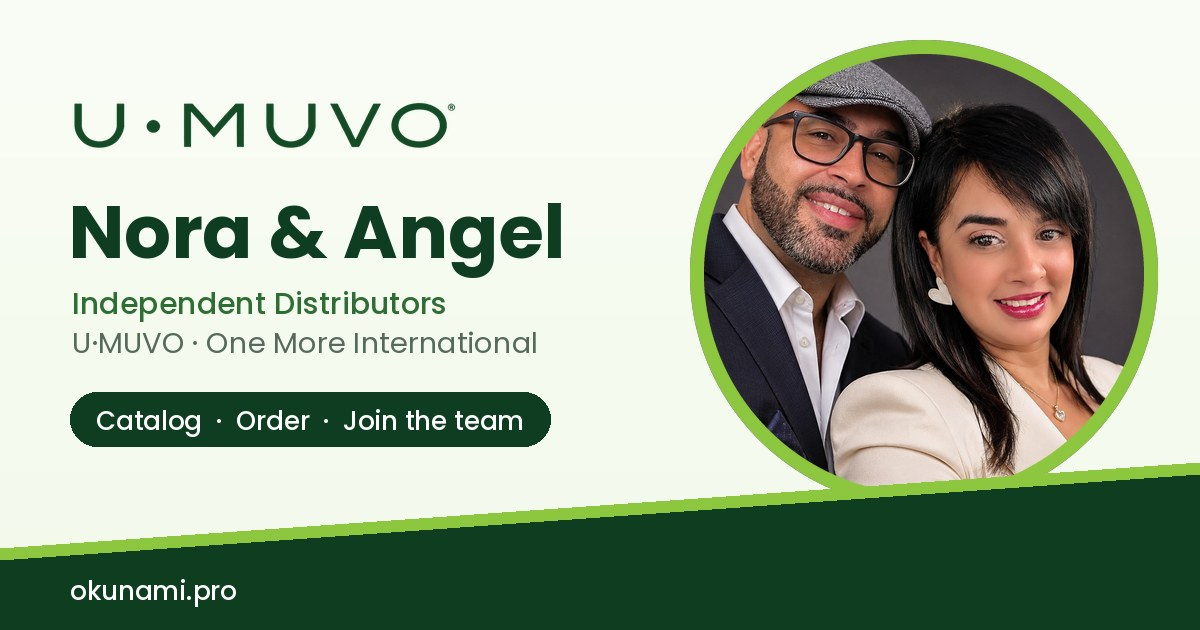
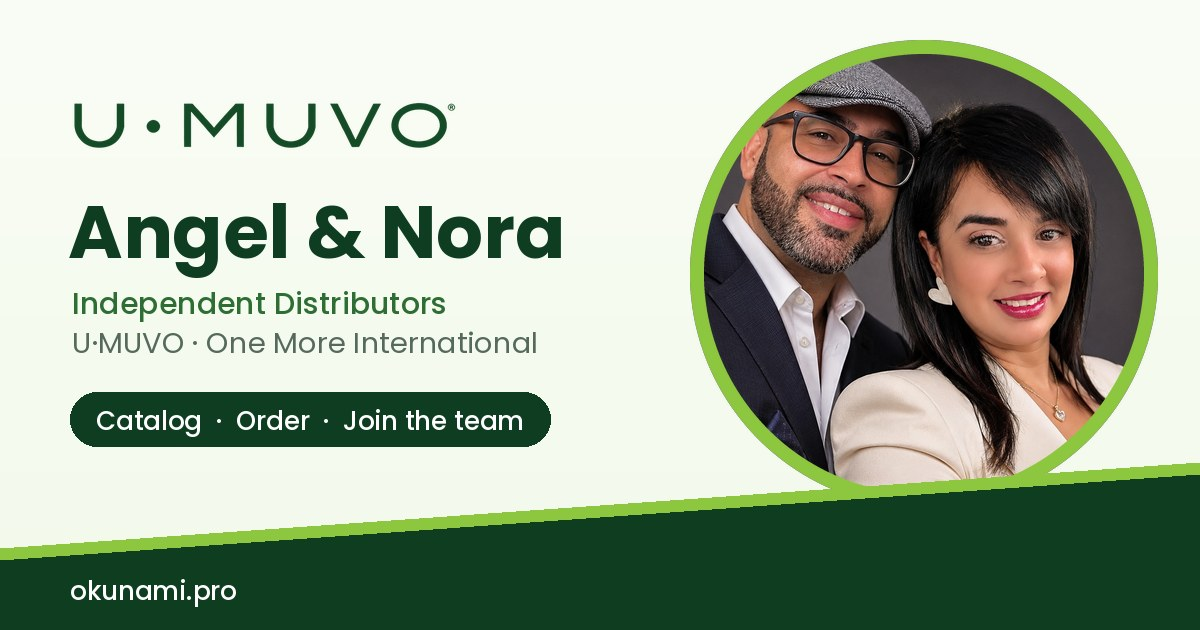
Angel & Nora card: back to Duo, names flipped
Angel first in the name, title, share image, contact rows, Nora-or-Angel pop-up, back office and Save Contact.

Claude-Session: https://claude.ai/code/session_01JodS2br9Sz2N15b8r9hp4v

Changed region(s): [[0.0617, 0.3016, 0.4625, 0.4524]]

diff --git a/sites/noraangel/index.html b/sites/noraangel/index.html
@@ -3,9 +3,9 @@
 <head>
 <meta charset="utf-8">
 <meta name="viewport" content="width=device-width, initial-scale=1, viewport-fit=cover">
-<title>Nora &amp; Angel | U-MUVO</title>
-<meta name="description" content="Nora &amp; Angel, Independent Distributors. Take the free natural wellness quiz, browse the U-MUVO catalog, order by WhatsApp and join our team.">
-<meta property="og:title" content="Nora &amp; Angel | U-MUVO">
+<title>Angel &amp; Nora | U-MUVO</title>
+<meta name="description" content="Angel &amp; Nora, Independent Distributors. Take the free natural wellness quiz, browse the U-MUVO catalog, order by WhatsApp and join our team.">
+<meta property="og:title" content="Angel &amp; Nora | U-MUVO">
 <meta property="og:description" content="Products, catalog and team. Save our contact in one step.">
 <meta property="og:type" content="website">
 <meta property="og:site_name" content="OKUNAMI">
@@ -13,7 +13,7 @@
 <meta property="og:image" content="https://noraangel.okunami.pro/images/og.jpg">
 <meta property="og:image:width" content="1200">
 <meta property="og:image:height" content="630">
-<meta property="og:image:alt" content="Nora and Angel, Independent Distributors, U-MUVO">
+<meta property="og:image:alt" content="Angel and Nora, Independent Distributors, U-MUVO">
 <meta name="twitter:card" content="summary_large_image">
 <meta name="twitter:image" content="https://noraangel.okunami.pro/images/og.jpg">
 <link rel="canonical" href="https://noraangel.okunami.pro/">
@@ -22,7 +22,7 @@
 <link rel="apple-touch-icon" sizes="180x180" href="images/apple-touch-icon.png">
 <meta name="apple-mobile-web-app-capable" content="yes">
 <meta name="mobile-web-app-capable" content="yes">
-<meta name="apple-mobile-web-app-title" content="Nora &amp; Angel">
+<meta name="apple-mobile-web-app-title" content="Angel &amp; Nora">
 <meta name="theme-color" content="#0f3d22">
 <link rel="preconnect" href="https://fonts.googleapis.com">
 <link rel="preconnect" href="https://fonts.gstatic.com" crossorigin>
@@ -34,7 +34,7 @@
 <link rel="stylesheet" href="css/pick.css">
 <link rel="stylesheet" href="css/looks.css">
 </head>
-<body class="final lk-signature" data-qr-name="Nora &amp; Angel">
+<body class="final lk-duo" data-qr-name="Angel &amp; Nora">
 <svg width="0" height="0" style="position:absolute" aria-hidden="true">
   <symbol id="i-phone" viewBox="0 0 24 24"><path fill="none" stroke="currentColor" stroke-width="1.8" stroke-linecap="round" stroke-linejoin="round" d="M5 4h4l2 5-2.5 1.5a11 11 0 0 0 5 5L15 13l5 2v4a2 2 0 0 1-2 2A16 16 0 0 1 3 6a2 2 0 0 1 2-2"/></symbol>
   <symbol id="i-text" viewBox="0 0 24 24"><path fill="none" stroke="currentColor" stroke-width="1.8" stroke-linecap="round" stroke-linejoin="round" d="M4 5h16v11H9l-5 4z"/><path stroke="currentColor" stroke-width="1.8" stroke-linecap="round" d="M8 9.5h8M8 12.5h5"/></symbol>
@@ -58,15 +58,15 @@
 <!-- LOOK: Editorial -->
 <article class="card l4" id="l4" aria-label="Editorial" data-lang="en">
   <div class="hero"><button class="lang" type="button" data-lang role="switch" aria-checked="false" aria-label="Español / Spanish"><span class="l-es" aria-hidden="true">ES</span><span class="l-en" aria-hidden="true">EN</span></button>
-    <div class="frame"><img class="photo" src="images/portrait.jpg" alt="Nora and Angel" width="800" height="1000"></div>
-    <div class="over"><img class="logo" src="images/logo-green.png" alt="U-MUVO" width="936" height="129"><h1>Nora <em>&amp;</em> Angel</h1><p class="role"><span data-es="Distribuidores Independientes">Independent Distributors</span><i></i><span class="u">U&middot;MUVO &middot; One More International</span></p></div>
+    <div class="frame"><img class="photo" src="images/portrait.jpg" alt="Angel and Nora" width="800" height="1000"></div>
+    <div class="over"><img class="logo" src="images/logo-green.png" alt="U-MUVO" width="936" height="129"><h1>Angel <em>&amp;</em> Nora</h1><p class="role"><span data-es="Distribuidores Independientes">Independent Distributors</span><i></i><span class="u">U&middot;MUVO &middot; One More International</span></p></div>
   </div>
   <div class="body">
-    <div class="duo" aria-label="Reach Nora or Angel">
-      <div class="who"><img src="images/nora.jpg" alt="" width="56" height="56"><div class="who-n"><b>Nora</b><small>(407) 731-0427</small></div>
-        <div class="who-a"><a data-direct="nora" href="https://wa.me/14077310427" target="_blank" rel="noopener" aria-label="WhatsApp Nora"><svg class="ico"><use href="#i-wa"/></svg></a><a data-direct="nora" href="tel:+14077310427" aria-label="Call Nora"><svg class="ico"><use href="#i-phone"/></svg></a><a data-direct="nora" href="sms:+14077310427" aria-label="Text Nora"><svg class="ico"><use href="#i-text"/></svg></a></div></div>
+    <div class="duo" aria-label="Reach Angel or Nora">
       <div class="who"><img src="images/angel.jpg" alt="" width="56" height="56"><div class="who-n"><b>Angel</b><small>(407) 960-9004</small></div>
         <div class="who-a"><a data-direct="angel" href="https://wa.me/14079609004" target="_blank" rel="noopener" aria-label="WhatsApp Angel"><svg class="ico"><use href="#i-wa"/></svg></a><a data-direct="angel" href="tel:+14079609004" aria-label="Call Angel"><svg class="ico"><use href="#i-phone"/></svg></a><a data-direct="angel" href="sms:+14079609004" aria-label="Text Angel"><svg class="ico"><use href="#i-text"/></svg></a></div></div>
+      <div class="who"><img src="images/nora.jpg" alt="" width="56" height="56"><div class="who-n"><b>Nora</b><small>(407) 731-0427</small></div>
+        <div class="who-a"><a data-direct="nora" href="https://wa.me/14077310427" target="_blank" rel="noopener" aria-label="WhatsApp Nora"><svg class="ico"><use href="#i-wa"/></svg></a><a data-direct="nora" href="tel:+14077310427" aria-label="Call Nora"><svg class="ico"><use href="#i-phone"/></svg></a><a data-direct="nora" href="sms:+14077310427" aria-label="Text Nora"><svg class="ico"><use href="#i-text"/></svg></a></div></div>
     </div>
     <div class="actions">
       <a class="btn wa" href="https://wa.me/14077310427" target="_blank" rel="noopener"><svg class="ico"><use href="#i-wa"/></svg>WhatsApp</a>
@@ -97,7 +97,7 @@
     <section class="panel quiz-panel" id="quiz">
       <p class="sec"><svg class="ico"><use href="#i-check"/></svg><span data-es="Quiz gratis de 60 segundos">Free 60-second quiz</span></p>
       <h2><span data-es="Encuentra tu rutina natural">Find your natural routine</span></h2>
-      <p class="lead"><span data-es="Contesta 5 preguntas r&amp;aacute;pidas sobre energ&amp;iacute;a, descanso, comodidad, piel y m&amp;aacute;s y recibe una sugerencia personal de Nora y Angel.">Answer 5 quick questions about energy, rest, body comfort, skin or more, and get a personal suggestion from Nora &amp; Angel.</span></p>
+      <p class="lead"><span data-es="Contesta 5 preguntas r&amp;aacute;pidas sobre energ&amp;iacute;a, descanso, comodidad, piel y m&amp;aacute;s y recibe una sugerencia personal de Angel y Nora.">Answer 5 quick questions about energy, rest, body comfort, skin or more, and get a personal suggestion from Angel &amp; Nora.</span></p>
       <button class="cta glow" type="button" data-quiz aria-haspopup="dialog"><svg class="ico"><use href="#i-leaf"/></svg><span data-es="Empezar el quiz">Start the quiz</span></button>
       <p class="cta-note"><span data-es="Gratis. Sin compromiso. Tus respuestas son privadas.">Free. No commitment. Your answers stay private.</span></p>
     </section>
@@ -111,7 +111,7 @@
         <li><b>100+</b><span data-es="Pa&amp;iacute;ses">Countries</span></li>
         <li><b>1M+</b><span data-es="Distribuidores">Distributors</span></li>
       </ul>
-      <a class="cta join-btn glow" href="https://wa.me/14077310427?text=Hi%20Nora%20and%20Angel%2C%20I%27d%20like%20to%20join%20your%20U-MUVO%20team." target="_blank" rel="noopener" data-join-wa><svg class="ico"><use href="#i-users"/></svg><span data-es="&amp;Uacute;nete al equipo">Join the team</span></a>
+      <a class="cta join-btn glow" href="https://wa.me/14077310427?text=Hi%20Angel%20and%20Nora%2C%20I%27d%20like%20to%20join%20your%20U-MUVO%20team." target="_blank" rel="noopener" data-join-wa><svg class="ico"><use href="#i-users"/></svg><span data-es="&amp;Uacute;nete al equipo">Join the team</span></a>
     </section>
 
     <ul class="badges" aria-label="Product standards">
@@ -123,7 +123,7 @@
     </ul>
     <p class="fine"><span data-es="Productos naturales de bienestar. No son medicina. Los resultados var&amp;iacute;an de persona a persona.">Natural wellness products. Not a medicine. Results vary from person to person.</span></p>
 
-    <div class="qr"><img src="images/qr.svg" alt="QR code to share Nora and Angel's card" width="264" height="264"><p><b><span data-es="Comparte nuestra tarjeta.">Share our card.</span></b><br><span data-es="Escanea para guardar nuestro contacto o env&amp;iacute;asela a alguien que quiera sentirse mejor.">Scan to save our contact or send it to someone who wants to feel better.</span></p></div>
+    <div class="qr"><img src="images/qr.svg" alt="QR code to share Angel and Nora's card" width="264" height="264"><p><b><span data-es="Comparte nuestra tarjeta.">Share our card.</span></b><br><span data-es="Escanea para guardar nuestro contacto o env&amp;iacute;asela a alguien que quiera sentirse mejor.">Scan to save our contact or send it to someone who wants to feel better.</span></p></div>
   </div>
   <div class="foot">
     <img class="logo" src="images/logo-green.png" alt="U-MUVO" width="936" height="129" loading="lazy">
@@ -137,7 +137,7 @@
 <div class="bk" id="bk" hidden>
   <div class="bk-sheet" role="dialog" aria-modal="true" aria-labelledby="bkTitle">
     <div class="bk-head">
-      <div><p class="bk-kicker" data-i18n="kicker">Nora &amp; Angel &middot; U-MUVO</p><h2 id="bkTitle" data-i18n="title">Book a free consultation</h2></div>
+      <div><p class="bk-kicker" data-i18n="kicker">Angel &amp; Nora &middot; U-MUVO</p><h2 id="bkTitle" data-i18n="title">Book a free consultation</h2></div>
       <button class="bk-x" type="button" data-bk-close aria-label="Close"><svg class="ico"><use href="#i-x"/></svg></button>
     </div>
     <div class="bk-body">
@@ -177,7 +177,7 @@
 <div class="qz pd" id="pd" hidden>
   <div class="qz-sheet pd-sheet" role="dialog" aria-modal="true" aria-labelledby="pdTitle">
     <div class="qz-head">
-      <div><p class="qz-kicker pd-kicker">Nora &amp; Angel &middot; U-MUVO</p><h2 id="pdTitle"></h2></div>
+      <div><p class="qz-kicker pd-kicker">Angel &amp; Nora &middot; U-MUVO</p><h2 id="pdTitle"></h2></div>
       <button class="qz-x pd-x" type="button" aria-label="Close"><svg class="ico"><use href="#i-x"/></svg></button>
     </div>
     <div class="qz-body pd-body"></div>
@@ -188,7 +188,7 @@
 <div class="qz" id="qz" hidden>
   <div class="qz-sheet" role="dialog" aria-modal="true" aria-labelledby="qzTitle">
     <div class="qz-head">
-      <div><p class="qz-kicker">Nora &amp; Angel &middot; U-MUVO</p><h2 id="qzTitle">Natural Wellness Quiz</h2></div>
+      <div><p class="qz-kicker">Angel &amp; Nora &middot; U-MUVO</p><h2 id="qzTitle">Natural Wellness Quiz</h2></div>
       <button class="qz-x" type="button" aria-label="Close"><svg class="ico"><use href="#i-x"/></svg></button>
     </div>
     <div class="qz-bar" aria-hidden="true"><i></i></div>

diff --git a/sites/noraangel/js/quiz.js b/sites/noraangel/js/quiz.js
@@ -1,7 +1,7 @@
 /* Natural Wellness Quiz: the card's lead magnet.
    5 quick questions -> name + WhatsApp -> a suggested routine from the products on this card.
    The lead is saved for the back office (Leads tab) before the result shows, and the visitor
-   can send their result to Nora & Angel on WhatsApp in one tap.
+   can send their result to Angel & Nora on WhatsApp in one tap.
    Deep link: add ?quiz=1 (or #quiz) to the card URL to open it straight away.
    Source tag: ?src=google-ads, ?src=flyer, ?utm_source=... is saved with the lead.
    Copy rule: no medical claims. Products "support" a routine; results vary. */
@@ -28,7 +28,7 @@
 
   var T = {
     en: {
-      kicker: "Nora & Angel · U-MUVO", title: "Natural Wellness Quiz", close: "Close", back: "Back", next: "Next",
+      kicker: "Angel & Nora · U-MUVO", title: "Natural Wellness Quiz", close: "Close", back: "Back", next: "Next",
       step: function (a, b) { return "Question " + a + " of " + b; },
       qs: [
         { k: "goal", q: "What would you most like to feel better?", o: [
@@ -40,24 +40,24 @@
         { k: "want", q: "What matters most to you?", o: [["natural", "Natural ingredients"], ["easy", "Easy to use"], ["price", "A good price"], ["guide", "Someone to guide me"]] },
         { k: "team", q: "Would you like to earn by sharing products you love?", o: [["yes", "Yes, tell me more"], ["maybe", "Maybe, I'm curious"], ["no", "No, just the products"]] }
       ],
-      cTitle: "Where should we send your routine?", cSub: "Nora & Angel will send it to you personally. No spam.",
+      cTitle: "Where should we send your routine?", cSub: "Angel & Nora will send it to you personally. No spam.",
       fName: "Your name", fPhone: "WhatsApp or phone", fEmail: "Email (optional)",
-      consent: "I agree that Nora & Angel may contact me by WhatsApp, text or email about my results. I can ask them to stop any time.",
+      consent: "I agree that Angel & Nora may contact me by WhatsApp, text or email about my results. I can ask them to stop any time.",
       see: "See my routine", saving: "One moment...",
       eName: "Please add your name.", eContact: "Please add a phone number or email.", eConsent: "Please check the box so we can reach you.",
       eNet: "We couldn't save that. Check your connection and try again.",
-      rKicker: "Your suggested routine", rFor: "For ", rNote: "People with the same goal often start with these. Nora & Angel will help you pick what fits you.",
-      rIncome: "You're a great fit for our team. Nora & Angel will show you how the business works, step by step.",
+      rKicker: "Your suggested routine", rFor: "For ", rNote: "People with the same goal often start with these. Angel & Nora will help you pick what fits you.",
+      rIncome: "You're a great fit for our team. Angel & Nora will show you how the business works, step by step.",
       waBtn: "Send my results on WhatsApp", catBtn: "Open the catalog", joinBtn: "See the business opportunity",
       fine: "Natural wellness products. Not a medicine and not meant to diagnose or treat any condition. Results vary. Talk to your doctor if you have a health concern.",
       goals: { comfort: "body comfort", energy: "more energy", sleep: "better sleep", skin: "skin and glow", weight: "feeling lighter", heart: "heart health and healthy aging", intimacy: "intimacy and vitality", income: "extra income" },
       wa: function (n, g, p, t) {
-        return "Hi Nora and Angel! I'm " + n + ". I just took the wellness quiz on your card. My goal: " + g + "." +
+        return "Hi Angel and Nora! I'm " + n + ". I just took the wellness quiz on your card. My goal: " + g + "." +
           (p.length ? " Suggested for me: " + p.join(", ") + "." : "") + (t === "yes" || t === "maybe" ? " I'm also interested in joining the team." : "") + " Can you help me get started?";
       }
     },
     es: {
-      kicker: "Nora & Angel · U-MUVO", title: "Quiz de Bienestar Natural", close: "Cerrar", back: "Atrás", next: "Siguiente",
+      kicker: "Angel & Nora · U-MUVO", title: "Quiz de Bienestar Natural", close: "Cerrar", back: "Atrás", next: "Siguiente",
       step: function (a, b) { return "Pregunta " + a + " de " + b; },
       qs: [
         { k: "goal", q: "¿Qué te gustaría sentir mejor?", o: [
@@ -69,19 +69,19 @@
         { k: "want", q: "¿Qué es lo más importante para ti?", o: [["natural", "Ingredientes naturales"], ["easy", "Fácil de usar"], ["price", "Un buen precio"], ["guide", "Alguien que me guíe"]] },
         { k: "team", q: "¿Te gustaría ganar compartiendo productos que te encantan?", o: [["yes", "Sí, cuéntame más"], ["maybe", "Quizás, tengo curiosidad"], ["no", "No, solo los productos"]] }
       ],
-      cTitle: "¿A dónde te enviamos tu rutina?", cSub: "Nora y Angel te la envían personalmente. Sin spam.",
+      cTitle: "¿A dónde te enviamos tu rutina?", cSub: "Angel y Nora te la envían personalmente. Sin spam.",
       fName: "Tu nombre", fPhone: "WhatsApp o teléfono", fEmail: "Email (opcional)",
-      consent: "Acepto que Nora y Angel me contacten por WhatsApp, texto o email sobre mis resultados. Puedo pedirles que paren cuando quiera.",
+      consent: "Acepto que Angel y Nora me contacten por WhatsApp, texto o email sobre mis resultados. Puedo pedirles que paren cuando quiera.",
       see: "Ver mi rutina", saving: "Un momento...",
       eName: "Por favor escribe tu nombre.", eContact: "Por favor escribe un teléfono o email.", eConsent: "Marca la casilla para poder contactarte.",
       eNet: "No pudimos guardarlo. Revisa tu conexión e intenta otra vez.",
-      rKicker: "Tu rutina sugerida", rFor: "Para ", rNote: "Las personas con tu misma meta suelen empezar con estos. Nora y Angel te ayudan a escoger lo que va contigo.",
-      rIncome: "Eres perfecto para nuestro equipo. Nora y Angel te enseñan cómo funciona el negocio, paso a paso.",
+      rKicker: "Tu rutina sugerida", rFor: "Para ", rNote: "Las personas con tu misma meta suelen empezar con estos. Angel y Nora te ayudan a escoger lo que va contigo.",
+      rIncome: "Eres perfecto para nuestro equipo. Angel y Nora te enseñan cómo funciona el negocio, paso a paso.",
       waBtn: "Enviar mis resultados por WhatsApp", catBtn: "Abrir el catálogo", joinBtn: "Ver la oportunidad de negocio",
       fine: "Productos naturales de bienestar. No son medicina y no son para diagnosticar ni tratar ninguna condición. Los resultados varían. Consulta a tu médico si tienes una preocupación de salud.",
       goals: { comfort: "comodidad del cuerpo", energy: "más energía", sleep: "dormir mejor", skin: "piel y brillo", weight: "sentirme más ligero", heart: "corazón y envejecer saludable", intimacy: "intimidad y vitalidad", income: "ingresos extra" },
       wa: function (n, g, p, t) {
-        return "¡Hola Nora y Angel! Soy " + n + ". Acabo de hacer el quiz de bienestar en su tarjeta. Mi meta: " + g + "." +
+        return "¡Hola Angel y Nora! Soy " + n + ". Acabo de hacer el quiz de bienestar en su tarjeta. Mi meta: " + g + "." +
           (p.length ? " Me sugirieron: " + p.join(", ") + "." : "") + (t === "yes" || t === "maybe" ? " También me interesa unirme al equipo." : "") + " ¿Me ayudan a empezar?";
       }
     }

diff --git a/sites/noraangel/js/main.js b/sites/noraangel/js/main.js
@@ -28,8 +28,8 @@
     var b = card.querySelector("[data-lang]");
     if(b){ b.setAttribute("aria-checked", es ? "true" : "false"); b.setAttribute("aria-label", es ? "English / Inglés" : "Español / Spanish"); }
   }
-  var ORDER_EN = "Hi Nora and Angel, I saw your U-MUVO catalog and I'd like to place an order.";
-  var ORDER_ES = "Hola Nora y Angel, vi su cat\u00e1logo de U-MUVO y me gustar\u00eda hacer un pedido.";
+  var ORDER_EN = "Hi Angel and Nora, I saw your U-MUVO catalog and I'd like to place an order.";
+  var ORDER_ES = "Hola Angel y Nora, vi su cat\u00e1logo de U-MUVO y me gustar\u00eda hacer un pedido.";
   document.querySelectorAll("[data-order]").forEach(function(o){ o.href = FX.wa + encodeURIComponent(ORDER_EN); });
   document.querySelectorAll(".card").forEach(function(card){
     var b = card.querySelector("[data-lang]");
@@ -44,17 +44,17 @@
     });
   });
 
-  // Booking pop-up (messages go to Nora or Angel, visitor picks): calendar, AM/PM slots, details
+  // Booking pop-up (messages go to Angel or Nora, visitor picks): calendar, AM/PM slots, details
   var bk = document.getElementById("bk"), lastBtn = null, bkEs = false;
   var T = {
-    en:{kicker:"Nora & Angel · U-MUVO", title:"Book a free consultation", s1:"1. Pick the day", s2:"2. Pick the time", s3:"3. What can we help you with?",
+    en:{kicker:"Angel & Nora · U-MUVO", title:"Book a free consultation", s1:"1. Pick the day", s2:"2. Pick the time", s3:"3. What can we help you with?",
       fName:"Your name", fCity:"City", fSize:"Best way to reach you", sms:"Text", close:"Close", prev:"Previous month", next:"Next month",
       months:["January","February","March","April","May","June","July","August","September","October","November","December"],
       dow:["Sun","Mon","Tue","Wed","Thu","Fri","Sat"], days:["Sunday","Monday","Tuesday","Wednesday","Thursday","Friday","Saturday"],
       types:["Product info","Place an order","Join the team","Business presentation","Video call"],
       sizes:["Phone call","Text message","WhatsApp","Email"], pick:"Pick a day and a time to send your request.",
       at:"at", none:"To be confirmed"},
-    es:{kicker:"Nora & Angel · U-MUVO", title:"Agenda una consulta gratis", s1:"1. Elige el día", s2:"2. Elige la hora", s3:"3. ¿En qué te podemos ayudar?",
+    es:{kicker:"Angel & Nora · U-MUVO", title:"Agenda una consulta gratis", s1:"1. Elige el día", s2:"2. Elige la hora", s3:"3. ¿En qué te podemos ayudar?",
       fName:"Tu nombre", fCity:"Ciudad", fSize:"Mejor forma de contactarte", sms:"Texto", close:"Cerrar", prev:"Mes anterior", next:"Mes siguiente",
       months:["enero","febrero","marzo","abril","mayo","junio","julio","agosto","septiembre","octubre","noviembre","diciembre"],
       dow:["Dom","Lun","Mar","Mié","Jue","Vie","Sáb"], days:["domingo","lunes","martes","miércoles","jueves","viernes","sábado"],
@@ -131,9 +131,9 @@
     var sizeEl = document.getElementById("bkSize"), how = sizeEl.selectedIndex > 0 ? sizeEl.value : "";
     var type = sel.type === null ? "" : t.types[sel.type];
     var msg = bkEs
-      ? "Hola Nora y Angel" + (name ? ", soy " + name : "") + ". Me gustaría agendar una consulta gratis de U-MUVO.\nFecha: " + dateText() + "\nHora: " + ampm(sel.hour) +
+      ? "Hola Angel y Nora" + (name ? ", soy " + name : "") + ". Me gustaría agendar una consulta gratis de U-MUVO.\nFecha: " + dateText() + "\nHora: " + ampm(sel.hour) +
         "\nTema: " + (type || t.none) + "\nCiudad: " + (city || t.none) + "\nMejor forma de contactarme: " + (how || t.none)
-      : "Hi Nora and Angel" + (name ? ", this is " + name : "") + ". I'd like to book a free U-MUVO consultation.\nDate: " + dateText() + "\nTime: " + ampm(sel.hour) +
+      : "Hi Angel and Nora" + (name ? ", this is " + name : "") + ". I'd like to book a free U-MUVO consultation.\nDate: " + dateText() + "\nTime: " + ampm(sel.hour) +
         "\nTopic: " + (type || t.none) + "\nCity: " + (city || t.none) + "\nBest way to reach me: " + (how || t.none);
     wa.href = FX.wa + encodeURIComponent(msg); sms.href = FX.sms + encodeURIComponent(msg);
     var dd = sel.date;
@@ -191,12 +191,12 @@
 
   // Save Contact
   function vcfText(){
-    var d = window.CB_CONTENT || {}, nm = (d.name || "Nora & Angel"), em = document.body.dataset.email || "angel@finessemedia.pro";
+    var d = window.CB_CONTENT || {}, nm = (d.name || "Angel & Nora"), em = document.body.dataset.email || "angel@finessemedia.pro";
     return ["BEGIN:VCARD","VERSION:3.0","N:;" + nm + ";;;","FN:" + nm,
     "ORG:" + (d.company || "U-MUVO · One More International"),
     "TITLE:" + (d.role_en || "Independent Distributors"),
-    "item1.TEL;TYPE=CELL,VOICE:+" + fxNum(), "item1.X-ABLabel:Nora",
-    "item2.TEL;TYPE=CELL,VOICE:+" + (document.body.dataset.phone2 || "14079609004"), "item2.X-ABLabel:Angel",
+    "item1.TEL;TYPE=CELL,VOICE:+" + (document.body.dataset.phone2 || "14079609004"), "item1.X-ABLabel:Angel",
+    "item2.TEL;TYPE=CELL,VOICE:+" + fxNum(), "item2.X-ABLabel:Nora",
     "X-SOCIALPROFILE;TYPE=whatsapp:https://wa.me/" + fxNum(),
     "EMAIL;TYPE=INTERNET:" + em,
     "URL:https://noraangel.okunami.pro/",
@@ -206,7 +206,7 @@
   document.querySelectorAll("[data-save]").forEach(function(b){
     b.addEventListener("click", function(){
       var url = URL.createObjectURL(new Blob([vcfText()], {type:"text/vcard;charset=utf-8"}));
-      var a = document.createElement("a"); a.href = url; a.download = "Nora-and-Angel.vcf";
+      var a = document.createElement("a"); a.href = url; a.download = "Angel-and-Nora.vcf";
       document.body.appendChild(a); a.click(); a.remove();
       setTimeout(function(){ URL.revokeObjectURL(url); }, 1500);
     });

diff --git a/sites/noraangel/admin/js/admin.js b/sites/noraangel/admin/js/admin.js
@@ -1,4 +1,4 @@
-/* Nora & Angel back office (OKUNAMI). Finesse OS method, JA Paint Pro pattern.
+/* Angel & Nora back office (OKUNAMI). Finesse OS method, JA Paint Pro pattern.
    Sign-in: the hidden door on the card (hold the name 5 s) or this page's own PIN screen.
    Every private action is checked on the server with the owner's session token. */
 (function () {
@@ -160,7 +160,7 @@
   function render() {
     var n = NAV.filter(function (x) { return x.id === cur; })[0];
     $("#crumb").textContent = L(n.en, n.es);
-    document.title = L(n.en, n.es) + " | Nora & Angel";
+    document.title = L(n.en, n.es) + " | Angel & Nora";
     var v = $("#view");
     if (cur === "home") { v.innerHTML = vHome(); libFetch(C.driveRoot).then(function (it) { var k = $("#kpiLib"); if (k && it) k.textContent = it.length; }); }
     else if (cur === "bookings") v.innerHTML = vBookings();
@@ -447,13 +447,13 @@
   var FIELDS = [
     { group: ["Photo and name", "Foto y nombre"], items: [
       { k: "photo", type: "image", kind: "photo", label: ["Main photo", "Foto principal"], hint: ["A tall photo works best. We resize it for you.", "Una foto vertical se ve mejor. La ajustamos por ti."], def: "../images/portrait.jpg" },
-      { k: "name", label: ["Name on the card", "Nombre en la tarjeta"], def: "Nora & Angel", max: 40 },
+      { k: "name", label: ["Name on the card", "Nombre en la tarjeta"], def: "Angel & Nora", max: 40 },
       { k: "role", pair: true, label: ["Title", "Título"], def: ["Independent Distributors", "Distribuidores Independientes"], max: 40 },
       { k: "company", label: ["Company line", "Línea de la empresa"], def: "U·MUVO · One More International", max: 60 }
     ]},
     { group: ["Contact", "Contacto"], items: [
-      { k: "phone", type: "tel", label: ["Nora's phone and WhatsApp", "Teléfono y WhatsApp de Nora"], hint: ["Visitors pick Nora or Angel for Call, Text, WhatsApp, orders and bookings.", "Los visitantes escogen a Nora o a Angel para Llamar, Texto, WhatsApp, pedidos y citas."], def: "(407) 731-0427" },
       { k: "phone2", type: "tel", label: ["Angel's phone and WhatsApp", "Teléfono y WhatsApp de Angel"], def: "(407) 960-9004" },
+      { k: "phone", type: "tel", label: ["Nora's phone and WhatsApp", "Teléfono y WhatsApp de Nora"], hint: ["Visitors pick Angel or Nora for Call, Text, WhatsApp, orders and bookings.", "Los visitantes escogen a Nora o a Angel para Llamar, Texto, WhatsApp, pedidos y citas."], def: "(407) 731-0427" },
       { k: "email", type: "email", label: ["Email", "Correo"], def: "angel@finessemedia.pro" }
     ]},
     { group: ["Products", "Productos"], items: [

diff --git a/sites/noraangel/js/products.js b/sites/noraangel/js/products.js
@@ -53,18 +53,18 @@
   if (!card || !list || !root) return;
 
   var T = {
-    en: { kicker: "Nora & Angel · U-MUVO", close: "Close", inside: "What's in it", how: "How it comes", chosen: "People choose it for",
+    en: { kicker: "Angel & Nora · U-MUVO", close: "Close", inside: "What's in it", how: "How it comes", chosen: "People choose it for",
       order: "Order on WhatsApp", ask: "Ask us a question", cat: "See it in the catalog", hint: "Tap a product to see what's in it and order",
       fine: "Natural wellness product. Not a medicine and not meant to diagnose or treat any condition. Results vary.",
       goals: { comfort: "Body comfort", energy: "Energy", sleep: "Rest and sleep", skin: "Skin and glow", weight: "Feeling lighter", heart: "Heart and healthy aging", intimacy: "Intimacy and vitality" },
-      orderMsg: function (n) { return "Hi Nora and Angel, I'd like to order " + n + ". Can you help me?"; },
-      askMsg: function (n) { return "Hi Nora and Angel, I have a question about " + n + "."; } },
-    es: { kicker: "Nora & Angel · U-MUVO", close: "Cerrar", inside: "Qué contiene", how: "Cómo viene", chosen: "Lo escogen para",
+      orderMsg: function (n) { return "Hi Angel and Nora, I'd like to order " + n + ". Can you help me?"; },
+      askMsg: function (n) { return "Hi Angel and Nora, I have a question about " + n + "."; } },
+    es: { kicker: "Angel & Nora · U-MUVO", close: "Cerrar", inside: "Qué contiene", how: "Cómo viene", chosen: "Lo escogen para",
       order: "Ordenar por WhatsApp", ask: "Haznos una pregunta", cat: "Verlo en el catálogo", hint: "Toca un producto para ver qué contiene y ordenarlo",
       fine: "Producto natural de bienestar. No es medicina y no es para diagnosticar ni tratar ninguna condición. Los resultados varían.",
       goals: { comfort: "Comodidad del cuerpo", energy: "Energía", sleep: "Descanso y sueño", skin: "Piel y brillo", weight: "Sentirse más ligero", heart: "Corazón y envejecer saludable", intimacy: "Intimidad y vitalidad" },
-      orderMsg: function (n) { return "Hola Nora y Angel, me gustaría pedir " + n + ". ¿Me ayudan?"; },
-      askMsg: function (n) { return "Hola Nora y Angel, tengo una pregunta sobre " + n + "."; } }
+      orderMsg: function (n) { return "Hola Angel y Nora, me gustaría pedir " + n + ". ¿Me ayudan?"; },
+      askMsg: function (n) { return "Hola Angel y Nora, tengo una pregunta sobre " + n + "."; } }
   };
   function es() { return card.dataset.lang === "es"; }
   function L() { return T[es() ? "es" : "en"]; }

diff --git a/sites/noraangel/admin/js/tips.js b/sites/noraangel/admin/js/tips.js
@@ -1,8 +1,8 @@
-/* Nora & Angel back office: guided help tips (JA Paint Pro pattern).
+/* Angel & Nora back office: guided help tips (JA Paint Pro pattern).
    The first time each person opens a page, a short trail of tips walks through it,
    pointing at the real buttons one step at a time. The ? button in the top bar replays
    the tips for the page, starts the full tour again, or turns tips on or off; Settings
-   has the same switch. Remembered per person, so Nora and Angel each get the tour.
+   has the same switch. Remembered per person, so Angel and Nora each get the tour.
    Listens for "cb:render" from admin.js. */
 (function () {
   "use strict";
@@ -33,8 +33,8 @@
       { sel: "#view .tiles", t: ["Shortcuts", "Atajos"],
         d: ["Open the team library, edit your card, or see your card the way your customers see it.", "Abre la biblioteca del equipo, edita tu tarjeta o mira tu tarjeta como la ven tus clientes."] },
       { sel: null, t: ["Your secret door", "Tu puerta secreta"],
-        d: ["To come back here anytime: open your card, press and hold your names \"Nora & Angel\" for 5 seconds, choose who you are and type your PIN. Customers never see it.",
-            "Para volver aquí cuando quieras: abre tu tarjeta, mantén presionados sus nombres \"Nora & Angel\" por 5 segundos, escoge quién eres y escribe tu PIN. Los clientes nunca lo ven."] },
+        d: ["To come back here anytime: open your card, press and hold your names \"Angel & Nora\" for 5 seconds, choose who you are and type your PIN. Customers never see it.",
+            "Para volver aquí cuando quieras: abre tu tarjeta, mantén presionados sus nombres \"Angel & Nora\" por 5 segundos, escoge quién eres y escribe tu PIN. Los clientes nunca lo ven."] },
       { sel: "#tipsBtn", t: ["Need help again?", "¿Necesitas ayuda otra vez?"],
         d: ["Press this button anytime to replay the tips for the page you're on. Each page has its own short guide the first time you open it.",
             "Presiona este botón cuando quieras para repetir los consejos de la página donde estás. Cada página tiene su propia guía corta la primera vez que la abres."] }

diff --git a/sites/noraangel/js/pick.js b/sites/noraangel/js/pick.js
@@ -1,4 +1,4 @@
-/* Two phones on one card: Nora and Angel.
+/* Two phones on one card: Angel and Nora.
    Every WhatsApp, Call and Text link on the card (buttons, orders, products, quiz, bookings, join)
    first asks "Who do you want to reach?" and then opens it with that person's number.
    Numbers can be changed in the back office (Nora = phone, Angel = phone2). */
@@ -33,7 +33,7 @@
       return '<button type="button" class="pk-p" data-pk="' + who + '"><img src="' + img + '" alt="" width="56" height="56"><span><b>' + name + '</b><small>' + fmt(num(who)) + '</small></span><svg class="ico"><use href="' + ico + '"/></svg></button>';
     }
     ov.innerHTML = '<div class="pk-sheet"><p class="pk-k">U&middot;MUVO</p><h2 id="pkT">' + t.t[k] + '</h2><p class="pk-sub">' + t.sub + '</p>' +
-      row("nora", "Nora", "images/nora.jpg") + row("angel", "Angel", "images/angel.jpg") +
+      row("angel", "Angel", "images/angel.jpg") + row("nora", "Nora", "images/nora.jpg") +
       '<button type="button" class="pk-x" data-pk="x">' + t.cancel + '</button></div>';
     document.body.appendChild(ov); document.body.classList.add("pk-open");
     var f = ov.querySelector(".pk-p"); if (f) f.focus();

diff --git a/sites/noraangel/js/cb-config.js b/sites/noraangel/js/cb-config.js
@@ -4,7 +4,7 @@ window.CB_CONFIG = {
   url: "https://hrwzzpmltpsqyynmmeof.supabase.co",
   anon: "eyJhbGciOiJIUzI1NiIsInR5cCI6IkpXVCJ9.eyJpc3MiOiJzdXBhYmFzZSIsInJlZiI6Imhyd3p6cG1sdHBzcXl5bm1tZW9mIiwicm9sZSI6ImFub24iLCJpYXQiOjE3OTA3MzE5MzIsImV4cCI6MjEwNjMwNzkzMn0.ow0CSZg0PkEv-rJ28Ggj2WkvzRrKQ0oI_V-GW6fFxlo",
   slug: "noraangel",
-  owners: [{ id: "nora", name: "Nora" }, { id: "angel", name: "Angel" }],
+  owners: [{ id: "angel", name: "Angel" }, { id: "nora", name: "Nora" }],
   /* Team Google Drive folder mirrored in the Library */
   driveRoot: "1Wp-sJA50Le6g3mI_rdxj1soE7nu-yw-V",
   driveRootName: "Summit Networkers Team - Marketing",

diff --git a/sites/noraangel/css/pick.css b/sites/noraangel/css/pick.css
@@ -1,4 +1,4 @@
-/* "Nora or Angel?" chooser */
+/* "Angel or Nora?" chooser */
 .pk{position:fixed;inset:0;z-index:90;display:flex;align-items:flex-end;justify-content:center;background:rgba(15,40,24,.5);backdrop-filter:blur(3px);-webkit-backdrop-filter:blur(3px)}
 .pk-sheet{width:100%;max-width:440px;background:#fff;color:var(--ink);border-radius:24px 24px 0 0;padding:22px 18px calc(18px + env(safe-area-inset-bottom,0px));box-shadow:0 -20px 50px -20px rgba(0,0,0,.5);animation:bkUp .26s ease-out;display:flex;flex-direction:column;gap:10px}
 @media (min-width:600px){.pk{align-items:center}.pk-sheet{border-radius:24px}}

diff --git a/sites/noraangel/js/gate.js b/sites/noraangel/js/gate.js
@@ -1,5 +1,5 @@
 /* Hidden owner door (OKUNAMI back office).
-   Press and hold the name "Nora & Angel" for 5 seconds -> who's signing in -> that person's PIN
+   Press and hold the name "Angel & Nora" for 5 seconds -> who's signing in -> that person's PIN
    -> personal welcome -> back office. Visitors never see anything: the ring only appears after
    the first second of holding. The PIN is checked on the server, with a lockout after 5 misses. */
 (function () {

diff --git a/sites/noraangel/admin/index.html b/sites/noraangel/admin/index.html
@@ -3,7 +3,7 @@
 <head>
 <meta charset="utf-8">
 <meta name="viewport" content="width=device-width, initial-scale=1, viewport-fit=cover">
-<title>Nora &amp; Angel | Back office</title>
+<title>Angel &amp; Nora | Back office</title>
 <meta name="robots" content="noindex, nofollow, noarchive">
 <meta name="theme-color" content="#0f3d22">
 <link rel="icon" type="image/png" sizes="32x32" href="../images/favicon-32.png">

diff --git a/sites/noraangel/css/looks.css b/sites/noraangel/css/looks.css
@@ -1,4 +1,4 @@
-/* Nora & Angel - 4 card looks (OKUNAMI proposal). One working card, restyled per look.
+/* Angel & Nora - 4 card looks (OKUNAMI proposal). One working card, restyled per look.
    Palette pulled from their burgundy suits and the U-MUVO greens. */
 :root{
   --wine:#6d1a2b;--wine-2:#8e2638;--wine-soft:#f7ecec;--gold:#b48a3c;--gold-2:#d9b56a;--ivory:#fbf7f0;--cream:#f3eadb;--sand:#e8dcc6;
